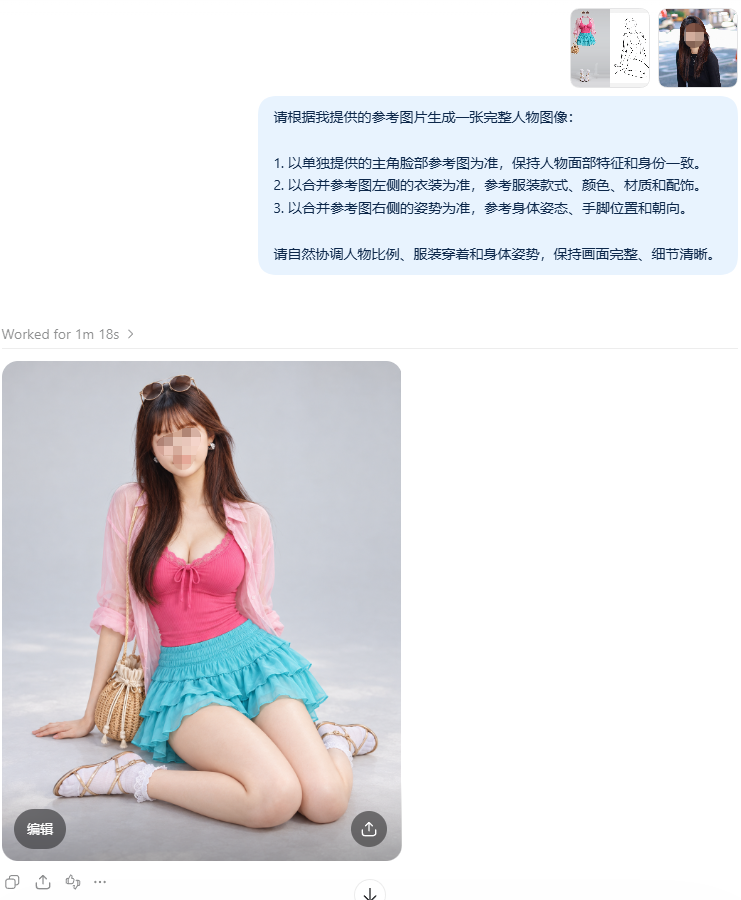
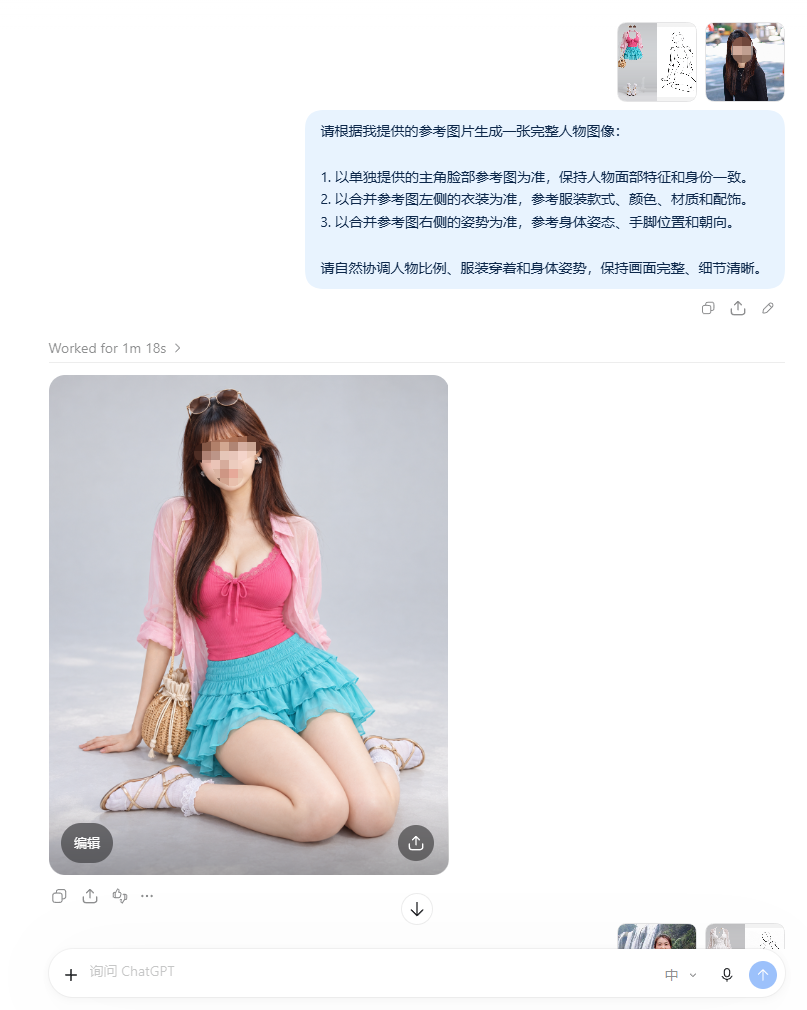
Replace usage example image

diff --git a/costume.html b/costume.html
@@ -6,7 +6,7 @@ const POSES=[{"id": "full_sexy_P001_front", "group": "单人全身·性感", "ca
 const $=s=>document.querySelector(s), modes=['costume','pose','random'];let mode='costume', limit=60, currentOutfit, currentPose, view=[], selectedGroup='';
 const unique=a=>[...new Set(a)];const esc=s=>String(s).replace(/[&<>"']/g,c=>({'&':'&amp;','<':'&lt;','>':'&gt;','"':'&quot;',"'":'&#39;'}[c]));
 const tip=document.createElement('div');tip.className='random-tip';tip.innerHTML='<strong>使用提示</strong><p>抽取完成后，点击“复制合并图片”或“下载图片”。然后将合并图、下方提示词和你准备好的主角脸部参考图一起提交给 AI，即可开始创作。</p>';document.querySelector('.prompt h2').after(tip);
-const exampleButton=document.createElement('button');exampleButton.type='button';exampleButton.className='example-link';exampleButton.textContent='查看使用示例 ↗';tip.append(exampleButton);const exampleDialog=document.createElement('dialog');exampleDialog.className='example-dialog';exampleDialog.innerHTML='<button class="btn example-close" aria-label="关闭示例">×</button><h2>使用示例</h2><p>将合并参考图、主角脸部参考图和提示词一起提交给 AI。</p><img src="assets/costume-example.png" alt="使用衣装和姿势参考图生成角色图片的示例">';document.body.append(exampleDialog);exampleButton.onclick=()=>exampleDialog.showModal();exampleDialog.querySelector('button').onclick=()=>exampleDialog.close();exampleDialog.onclick=e=>{if(e.target===exampleDialog)exampleDialog.close()};
+const exampleButton=document.createElement('button');exampleButton.type='button';exampleButton.className='example-link';exampleButton.textContent='查看使用示例 ↗';tip.append(exampleButton);const exampleDialog=document.createElement('dialog');exampleDialog.className='example-dialog';exampleDialog.innerHTML='<button class="btn example-close" aria-label="关闭示例">×</button><h2>使用示例</h2><p>将合并参考图、主角脸部参考图和提示词一起提交给 AI。</p><img src="assets/costume-example.png?v=2" alt="使用衣装和姿势参考图生成角色图片的示例">';document.body.append(exampleDialog);exampleButton.onclick=()=>exampleDialog.showModal();exampleDialog.querySelector('button').onclick=()=>exampleDialog.close();exampleDialog.onclick=e=>{if(e.target===exampleDialog)exampleDialog.close()};
 const toast=document.createElement('div');toast.className='copy-toast';toast.setAttribute('role','status');toast.setAttribute('aria-live','polite');document.body.append(toast);let toastTimer;function showToast(message,failed=false){toast.textContent=message;toast.classList.toggle('failed',failed);toast.classList.add('visible');clearTimeout(toastTimer);toastTimer=setTimeout(()=>toast.classList.remove('visible'),2600)}
 function options(el,values,label){el.innerHTML=`<option value="">${label}：全部</option>`+values.map(v=>`<option value="${esc(v)}">${esc(v)}</option>`).join('')}
 options($('#outfitFilter'),unique(COSTUMES.map(x=>x.category)),'衣装分类');options($('#poseFilter'),unique(POSES.filter(x=>x.group!=='双人姿势').map(x=>x.category)),'姿势分类');
